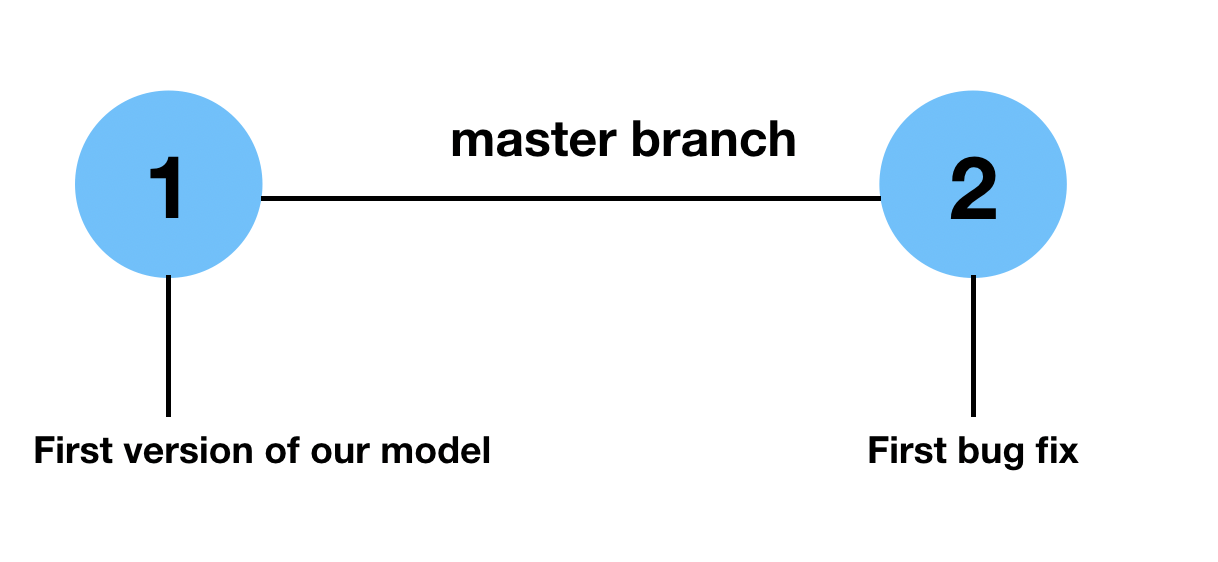
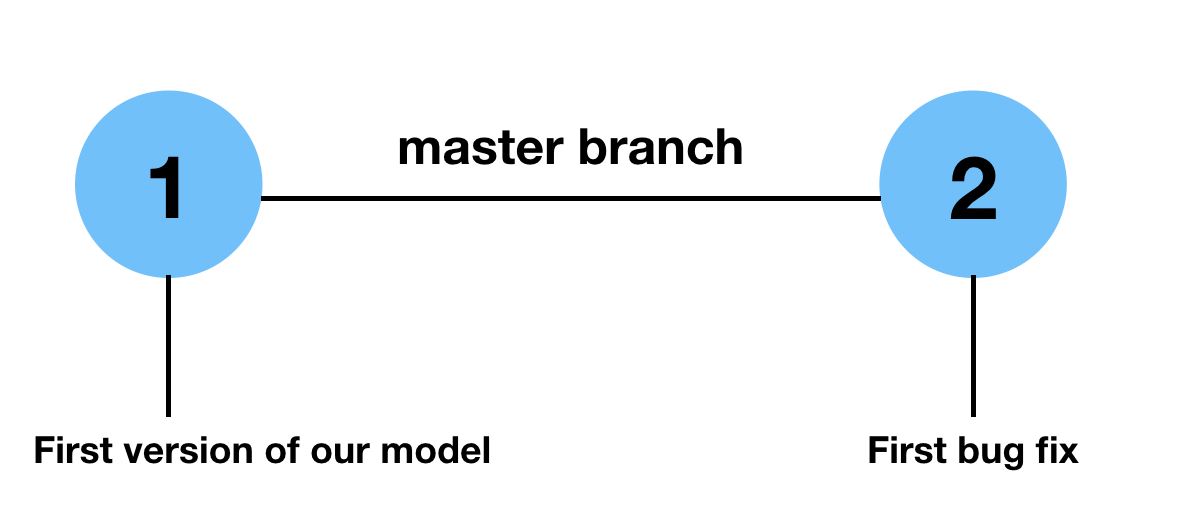
update readme

diff --git a/README.md b/README.md
@@ -50,7 +50,7 @@ By working in branches, collaborators can work without messing with the main tim
 
 Let's suppose a `master` branch with two commits:
 
-<img src="images/new_image_git_1.png" width="500" height="600">
+<img src="images/new_image_git_1.png">
 
 
 Best practices suggest that any new set of changes related to fixing a bug, creating a feature, or even messing around with experimental code in a "sandbox", should be started on a new branch.
